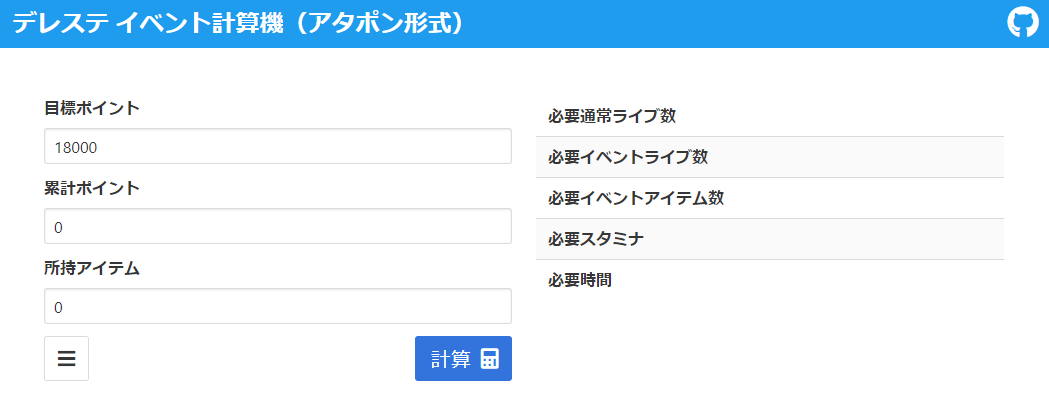
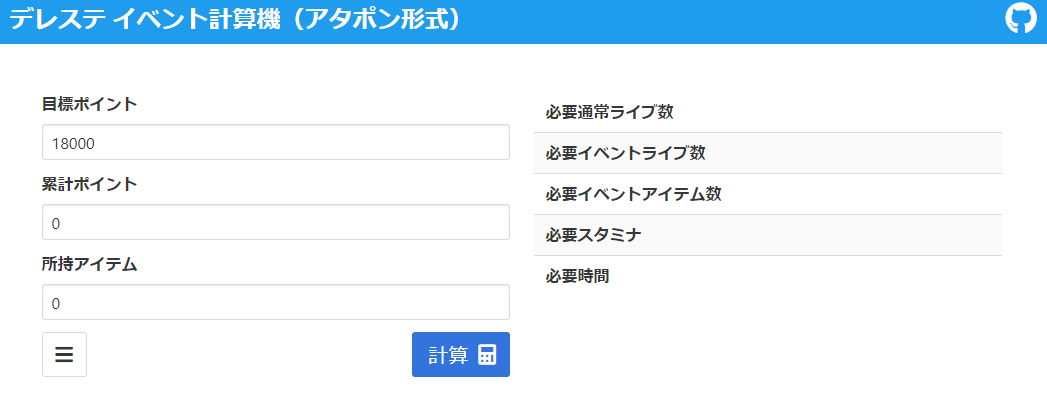
update readme

diff --git a/README.md b/README.md
@@ -5,7 +5,7 @@
 URL: https://jagpotato.github.io/calc-event/
 
 ## 使い方
-![ss1](https://user-images.githubusercontent.com/15711514/36796242-783335bc-1ce8-11e8-93a2-1991bc7531f7.PNG)
+![ss1](https://user-images.githubusercontent.com/15711514/36796907-024eb496-1cea-11e8-989a-2ed40fa2017c.PNG)
 最終的に獲得したいイベントポイント「目標ポイント」，現在獲得しているイベントポイント「累計ポイント」，現在所持しているイベントアイテム「所持アイテム」を入力して計算ボタンを押すと，表に各計算結果が表示されます．
 ![ss2](https://user-images.githubusercontent.com/15711514/36795497-84316ab6-1ce6-11e8-9dcd-e6eccba367fd.PNG)
 
